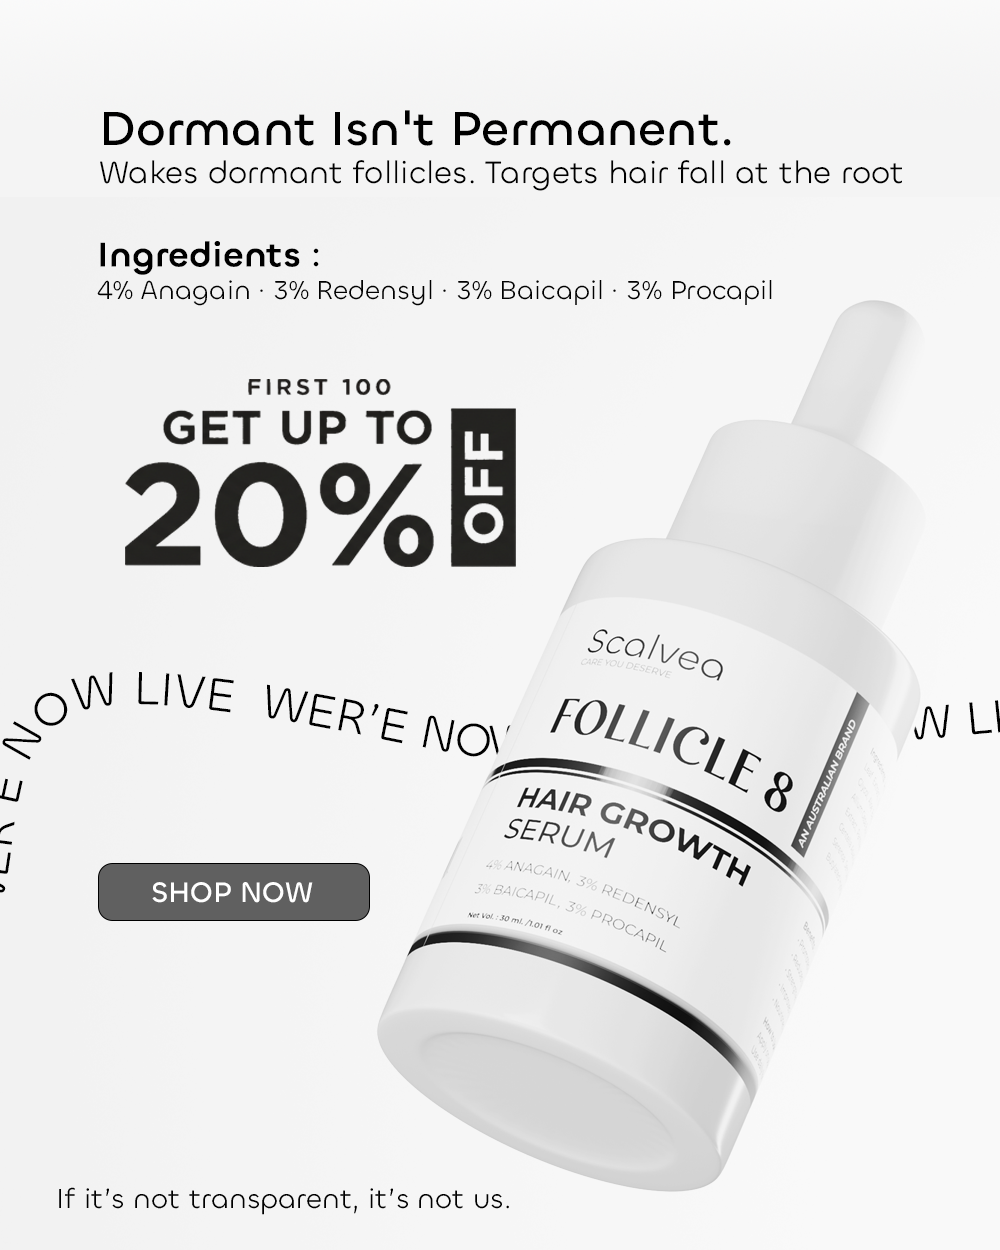
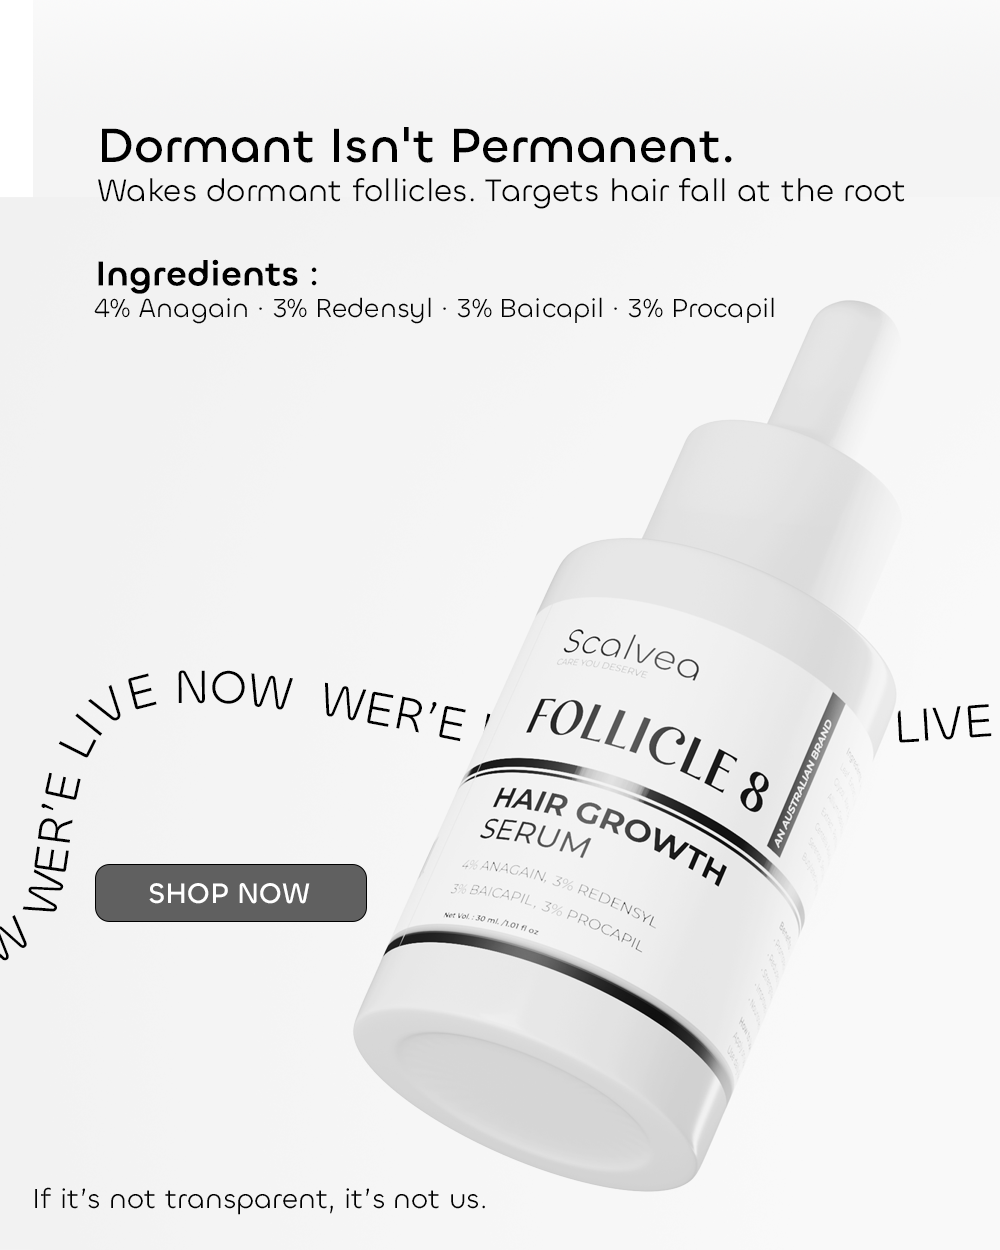
UI updaed again

diff --git a/src/components/layout/Header.tsx b/src/components/layout/Header.tsx
@@ -104,13 +104,7 @@ const Header = () => {
     return () => window.removeEventListener("scroll", handleScroll);
   }, []);
 
-  const [couponCopied, setCouponCopied] = useState(false);
 
-  const handleCopyCoupon = () => {
-    navigator.clipboard.writeText("GET20");
-    setCouponCopied(true);
-    setTimeout(() => setCouponCopied(false), 2000);
-  };
 
   const handleSearch = (e: React.FormEvent) => {
     e.preventDefault();
@@ -183,7 +177,10 @@ const Header = () => {
                 className="hover:opacity-60 transition-all flex items-center gap-1 sm:gap-1.5 border border-neutral-250 px-1.5 sm:px-2.5 py-1 text-[9px] sm:text-[10px] tracking-[0.08em] uppercase font-light text-[#111111] bg-white"
                 aria-label="Choose country"
               >
-                <span>{country === "India" ? "🇮🇳 INR" : "🇦🇺 AUD"}</span>
+                <span className="flex items-center gap-1.5">
+                  <img src={country === "India" ? "https://flagcdn.com/w20/in.png" : "https://flagcdn.com/w20/au.png"} alt={country} className="w-3.5 h-auto rounded-[1px] shadow-[0_0_2px_rgba(0,0,0,0.1)]" />
+                  <span>{country === "India" ? "INR" : "AUD"}</span>
+                </span>
                 <span className="text-[7px] sm:text-[8px] opacity-60">▼</span>
               </button>
               {isCountryOpen && (
@@ -193,7 +190,7 @@ const Header = () => {
                     className={`w-full flex items-center justify-between px-5 py-3.5 text-[10px] tracking-[0.08em] uppercase hover:bg-neutral-50 transition-colors duration-200 whitespace-nowrap ${country === "India" ? "bg-neutral-50 font-semibold text-black" : "text-neutral-600 font-light"}`}
                   >
                     <span className="flex items-center gap-2.5">
-                      <span>🇮🇳</span>
+                      <img src="https://flagcdn.com/w20/in.png" alt="India" className="w-4 h-auto rounded-sm shadow-sm" />
                       <span className="text-neutral-800 font-medium">India</span>
                     </span>
                     <span className="text-muted-foreground font-mono text-[9px]">₹ INR</span>
@@ -203,7 +200,7 @@ const Header = () => {
                     className={`w-full flex items-center justify-between px-5 py-3.5 text-[10px] tracking-[0.08em] uppercase hover:bg-neutral-50 transition-colors duration-200 whitespace-nowrap ${country === "Australia" ? "bg-neutral-50 font-semibold text-black" : "text-neutral-600 font-light"}`}
                   >
                     <span className="flex items-center gap-2.5">
-                      <span>🇦🇺</span>
+                      <img src="https://flagcdn.com/w20/au.png" alt="Australia" className="w-4 h-auto rounded-sm shadow-sm" />
                       <span className="text-neutral-800 font-medium">Australia</span>
                     </span>
                     <span className="text-muted-foreground font-mono text-[9px]">A$ AUD</span>
@@ -276,33 +273,15 @@ const Header = () => {
           </motion.div>
         </nav>
 
-        {/* HIGHLIGHTED COUPON DISCOUNT BANNER */}
-        <div className="bg-black text-white border-t border-neutral-800/80 py-1 sm:py-1.5 px-3 text-center select-none relative lg:absolute lg:top-full lg:left-0 lg:right-0 z-30 shadow-sm lg:bg-black/90 lg:backdrop-blur-md">
-          <div className="max-w-7xl mx-auto flex items-center justify-center gap-1.5 sm:gap-2.5 text-[11px] sm:text-xs font-medium tracking-wide flex-wrap">
-            <span className="inline-flex items-center gap-1 text-amber-400 font-bold uppercase tracking-wider">
-              <span>⚡</span> SPECIAL OFFER:
-            </span>
-            <span className="text-neutral-200">Use coupon code</span>
-            <button
-              onClick={handleCopyCoupon}
-              className="group relative inline-flex items-center gap-1.5 bg-white/15 hover:bg-white text-white hover:text-black border border-white/30 px-2.5 py-0.5 rounded font-mono font-bold text-[11px] sm:text-xs tracking-wider transition-all duration-200 active:scale-95 cursor-pointer shadow-sm"
-              title="Click to copy coupon code"
-              type="button"
-            >
-              <span>GET20</span>
-              {couponCopied ? (
-                <Check className="h-3 w-3 text-emerald-400 group-hover:text-emerald-600" />
-              ) : (
-                <Copy className="h-3 w-3 opacity-75 group-hover:opacity-100" />
-              )}
-              {couponCopied && (
-                <span className="absolute -top-7 left-1/2 -translate-x-1/2 bg-emerald-500 text-white text-[9px] px-2 py-0.5 rounded font-sans font-bold shadow-lg whitespace-nowrap animate-in fade-in zoom-in-95 duration-150">
-                  Copied!
-                </span>
-              )}
-            </button>
-            <span className="text-neutral-200">
-              to get <span className="text-amber-400 font-bold tracking-wider">20% DISCOUNT</span> on your order!
+        {/* HIGHLIGHTED SHIPPING BANNER */}
+        <div className="bg-black text-white border-t border-neutral-800/80 py-1.5 px-3 text-center select-none relative lg:absolute lg:top-full lg:left-0 lg:right-0 z-30 shadow-sm lg:bg-black/90 lg:backdrop-blur-md">
+          <div className="max-w-7xl mx-auto flex items-center justify-center gap-2 sm:gap-3 text-[11px] sm:text-xs font-medium tracking-wide flex-wrap">
+            <span className="text-neutral-200 flex items-center flex-wrap justify-center gap-1.5">
+              <span className="font-semibold text-white">Free Delivery</span> anywhere in India 
+              <img src="https://flagcdn.com/w20/in.png" alt="India" className="w-4 h-auto ml-0.5 rounded-sm shadow-sm" /> 
+              <span className="mx-1.5 text-neutral-600">|</span> 
+              <img src="https://flagcdn.com/w20/au.png" alt="Australia" className="w-4 h-auto mr-0.5 rounded-sm shadow-sm" /> 
+              <span className="font-semibold text-white">Free Shipping</span> on orders over A$60
             </span>
           </div>
         </div>

diff --git a/src/pages/Checkout.tsx b/src/pages/Checkout.tsx
@@ -37,7 +37,7 @@ const Checkout = () => {
 
   useEffect(() => {
     if (!authLoading && !user) {
-      navigate("/auth?returnTo=/checkout");
+      navigate("/auth?returnTo=/cart");
     }
   }, [authLoading, user, navigate]);
 
@@ -52,8 +52,8 @@ const Checkout = () => {
   const taxRate = isIndia ? (settings?.tax_percentage || 0) / 100 : 0; // Prices are tax-inclusive for AU
   const taxAmount = subtotalAfterDiscount * taxRate;
   
-  const freeShippingThreshold = settings?.free_shipping_above || (isIndia ? 999 : 100);
-  const shippingAmount = subtotalAfterDiscount >= freeShippingThreshold ? 0 : (isIndia ? (settings?.shipping_charge || 100) : 9.50);
+  const freeShippingThreshold = isIndia ? 0 : 60;
+  const shippingAmount = subtotalAfterDiscount >= freeShippingThreshold ? 0 : (isIndia ? 0 : 7.99);
   const grandTotal = subtotalAfterDiscount + taxAmount + shippingAmount;
 
   const [form, setForm] = useState({
@@ -117,19 +117,11 @@ const Checkout = () => {
 
         setAppliedCoupon({ code: data.code, discount_percentage: Number(data.discount_percentage) });
         toast({ title: `Coupon ${data.code} applied! ${Number(data.discount_percentage)}% off` });
-      } else if (code === "GET20" || code === "FIRST100") {
-        setAppliedCoupon({ code: "GET20", discount_percentage: 20 });
-        toast({ title: "Coupon GET20 applied! 20% off" });
       } else {
         toast({ title: "Invalid coupon", description: `This coupon code is not valid.`, variant: "destructive" });
       }
     } catch {
-      if (code === "GET20" || code === "FIRST100") {
-        setAppliedCoupon({ code: "GET20", discount_percentage: 20 });
-        toast({ title: "Coupon GET20 applied! 20% off" });
-      } else {
-        toast({ title: "Error applying coupon", variant: "destructive" });
-      }
+      toast({ title: "Error applying coupon", variant: "destructive" });
     }
     setApplyingCoupon(false);
   };
@@ -149,7 +141,7 @@ const Checkout = () => {
 
     if (!user) {
       toast({ title: "Please sign in", description: "You need an account to complete checkout.", variant: "destructive" });
-      navigate("/auth?returnTo=/checkout");
+      navigate("/auth?returnTo=/cart");
       return;
     }
 
@@ -295,7 +287,7 @@ const Checkout = () => {
     e.preventDefault();
     if (!user) {
       toast({ title: "Please sign in", description: "You need an account to place an order.", variant: "destructive" });
-      navigate("/auth?returnTo=/checkout");
+      navigate("/auth?returnTo=/cart");
       return;
     }
 
@@ -576,15 +568,7 @@ const Checkout = () => {
                 <div className="space-y-2">
                   <div className="flex items-center justify-between">
                     <p className="text-[10px] tracking-[0.1em] uppercase text-muted-foreground">Promo / Discount Code</p>
-                    {!appliedCoupon && (
-                      <button
-                        type="button"
-                        onClick={() => applyCoupon("GET20")}
-                        className="text-[9px] tracking-wide text-amber-500 hover:text-amber-600 font-bold uppercase underline transition-colors cursor-pointer"
-                      >
-                        ⚡ Apply GET20 (20% OFF)
-                      </button>
-                    )}
+
                   </div>
                   {appliedCoupon ? (
                     <div className="flex items-center justify-between bg-background border border-border px-4 py-2 animate-fade-in">
@@ -596,7 +580,7 @@ const Checkout = () => {
                       <input
                         value={couponCode}
                         onChange={(e) => setCouponCode(e.target.value.toUpperCase())}
-                        placeholder="GET20"
+                        placeholder="Enter code"
                         className="flex-1 h-10 px-3 text-xs bg-transparent border border-border outline-none focus:border-foreground uppercase tracking-wider font-mono"
                       />
                       <Button type="button" onClick={() => applyCoupon()} disabled={applyingCoupon} variant="outline" className="h-10 text-xs tracking-[0.1em] uppercase">
@@ -620,7 +604,7 @@ const Checkout = () => {
                       ) : (
                         <span>
                           <span className="line-through text-muted-foreground/60 mr-1.5">
-                            {isIndia ? "₹100" : "A$10.00"}
+                            {isIndia ? "₹100" : "A$7.99"}
                           </span>
                           <span className="font-medium text-foreground">{formatVal(shippingAmount)}</span>
                         </span>

diff --git a/src/pages/Cart.tsx b/src/pages/Cart.tsx
@@ -25,14 +25,27 @@ const Cart = () => {
     return `A$${val.toFixed(2)}`;
   };
 
-  const freeShippingThreshold = settings?.free_shipping_above || (isIndia ? 999 : 100);
-  const shipping = total >= freeShippingThreshold ? 0 : (isIndia ? (settings?.shipping_charge || 100) : 7.50);
+  const freeShippingThreshold = isIndia ? 0 : 60;
+  const shipping = total >= freeShippingThreshold ? 0 : (isIndia ? 0 : 7.99);
 
   return (
     <div className="min-h-screen bg-background">
       <Header />
       <main className="px-6 lg:px-12 py-12 lg:py-16">
         <h1 className="text-3xl font-light tracking-[0.04em] mb-12">Your Bag</h1>
+        
+        {/* HIGHLIGHTED SHIPPING BANNER */}
+        <div className="bg-black text-white border border-neutral-800/80 py-2 px-3 text-center select-none shadow-sm mb-8">
+          <div className="flex items-center justify-center gap-2 sm:gap-3 text-[11px] sm:text-xs font-medium tracking-wide flex-wrap">
+            <span className="text-neutral-200 flex items-center flex-wrap justify-center gap-1.5">
+              <span className="font-semibold text-white">Free Delivery</span> anywhere in India 
+              <img src="https://flagcdn.com/w20/in.png" alt="India" className="w-4 h-auto ml-0.5 rounded-sm shadow-sm" /> 
+              <span className="mx-1.5 text-neutral-600">|</span> 
+              <img src="https://flagcdn.com/w20/au.png" alt="Australia" className="w-4 h-auto mr-0.5 rounded-sm shadow-sm" /> 
+              <span className="font-semibold text-white">Free Shipping</span> on orders over A$60
+            </span>
+          </div>
+        </div>
         {items.length === 0 ? (
           <div className="text-center py-20 space-y-6">
             <ShoppingBag className="h-16 w-16 mx-auto text-muted-foreground" />
@@ -91,7 +104,7 @@ const Cart = () => {
                     ) : (
                       <span>
                         <span className="line-through text-muted-foreground/60 mr-1.5">
-                          {isIndia ? "₹100" : "A$10.00"}
+                          {isIndia ? "₹100" : "A$7.99"}
                         </span>
                         <span className="font-medium text-foreground">{formatVal(shipping)}</span>
                       </span>

diff --git a/src/components/cart/CartDrawer.tsx b/src/components/cart/CartDrawer.tsx
@@ -28,6 +28,19 @@ const CartDrawer = ({ open, onClose }: CartDrawerProps) => {
         <SheetHeader className="border-b border-border pb-4">
           <SheetTitle className="text-sm tracking-[0.15em] uppercase font-normal">Your Bag ({itemCount})</SheetTitle>
         </SheetHeader>
+        
+        {/* HIGHLIGHTED SHIPPING BANNER */}
+        <div className="bg-black text-white py-2 px-2 text-center select-none shadow-sm -mx-6 mb-2">
+          <div className="flex items-center justify-center gap-2 text-[10px] font-medium tracking-wide flex-wrap">
+            <span className="text-neutral-200 flex items-center flex-wrap justify-center gap-1.5">
+              <span className="font-semibold text-white">Free Delivery</span> anywhere in India 
+              <img src="https://flagcdn.com/w20/in.png" alt="India" className="w-3.5 h-auto ml-0.5 rounded-sm shadow-sm" /> 
+              <span className="mx-1 text-neutral-600">|</span> 
+              <img src="https://flagcdn.com/w20/au.png" alt="Australia" className="w-3.5 h-auto mr-0.5 rounded-sm shadow-sm" /> 
+              <span className="font-semibold text-white">Free Shipping</span> on orders over A$60
+            </span>
+          </div>
+        </div>
         {items.length === 0 ? (
           <div className="flex-1 flex flex-col items-center justify-center gap-4">
             <ShoppingBag className="h-12 w-12 text-muted-foreground" />

diff --git a/src/components/admin/AdminManualOrder.tsx b/src/components/admin/AdminManualOrder.tsx
@@ -289,8 +289,8 @@ const AdminManualOrder = ({ onClose, onOrderCreated }: Props) => {
 
   /* ── Calculations — using live country_settings thresholds ── */
   const currentSettings = countrySettings[country] || (isIndia
-    ? { free_shipping_above: 999, shipping_charge: 50 }
-    : { free_shipping_above: 100, shipping_charge: 7.5 });
+    ? { free_shipping_above: 0, shipping_charge: 0 }
+    : { free_shipping_above: 60, shipping_charge: 7.99 });
 
   const subtotal = lineItems.reduce((sum, li) => sum + getItemPrice(li.product) * li.quantity, 0);
 

diff --git a/supabase/functions/create-stripe-session/index.ts b/supabase/functions/create-stripe-session/index.ts
@@ -198,7 +198,7 @@ Deno.serve(async (req) => {
     // ── Step 7: Calculate Shipping ───────────────────────────────────────
     console.log("Step 7: Calculating shipping...");
     const gstCents = 0;
-    let shippingCents = 950; // Standard: A$9.50
+    let shippingCents = 799; // Standard: A$7.99
     let shippingDisplayName = "Standard Shipping";
     let deliveryMinDays = 5;
     let deliveryMaxDays = 7;
